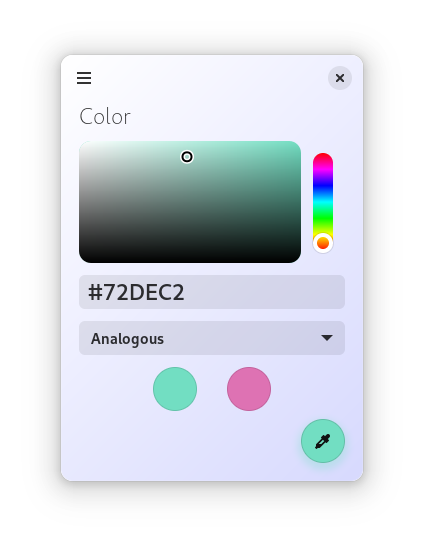
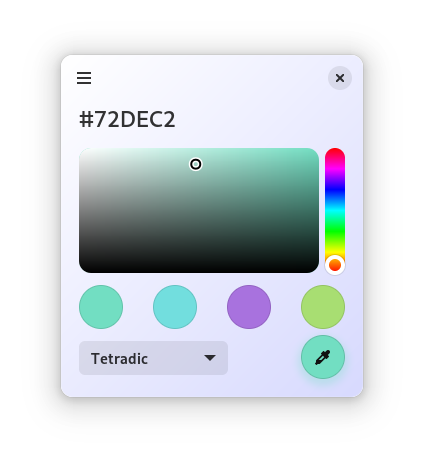
* - Make window small like a toolbox app

diff --git a/data/style.css b/data/style.css
@@ -26,7 +26,10 @@
     min-width: 20px;
     padding: 6px 0;
 }
-
+.clr-hue {
+    margin: 0 0 0 6px;
+    padding: 0;
+}
 .clr-hue slider {
 	box-shadow: inset 0 0 0 4px #fff;
 	border: none;
@@ -35,12 +38,6 @@
 	background: none;
   border-radius: 999px;
 }
-
-.clr-props-message:disabled {
-  color: rgba(255,255,255,0);
-  transition: 500ms color;
-}
-
 .clr-color {
   border-radius: 999px;
   box-shadow: inset 0 0 0 1px @borders;
@@ -57,13 +54,10 @@
   border-radius: 999px;
 }
 
-.view-title {
-  font-size: 1.5rem;
-  font-weight: 300;
-  padding: 0;
-  margin: 0;
-}
 .view-title-bold {
   font-size: 1.5rem;
   font-weight: 600;
+  margin: 0;
+  padding: 0;
+  background: none;
 }
